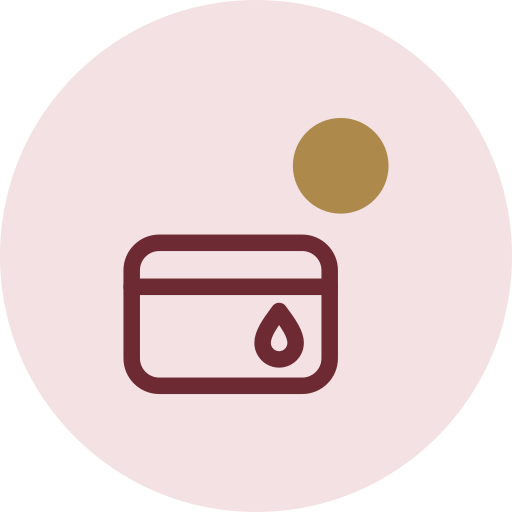
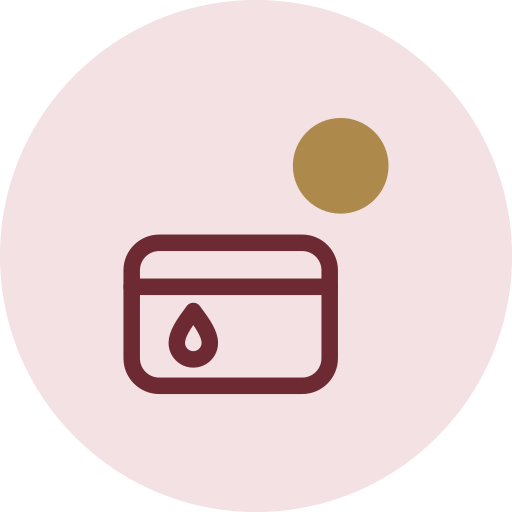
アイコンのしずくを、カードの左側へ移す(絵全体の重心が右に寄っていたため)

Changed region(s): [[0.3125, 0.5938, 0.4375, 0.7188], [0.5, 0.5938, 0.5938, 0.7188]]

diff --git a/components/CardMark.tsx b/components/CardMark.tsx
@@ -14,7 +14,7 @@ export default function CardMark({ size = 26 }: { size?: number }) {
     >
       <rect x="3" y="6" width="18" height="13" rx="2.5" />
       <path d="M3 10h18" />
-      <path d="M16.4 12.2c-0.9 1.2-1.5 2.1-1.5 2.9a1.5 1.5 0 0 0 3 0c0-0.8-0.6-1.7-1.5-2.9z" />
+      <path d="M8.6 12.2c-0.9 1.2-1.5 2.1-1.5 2.9a1.5 1.5 0 0 0 3 0c0-0.8-0.6-1.7-1.5-2.9z" />
       <circle cx="22" cy="-1" r="4.35" fill="var(--gold)" stroke="none" />
     </svg>
   );

diff --git a/BRAND.md b/BRAND.md
@@ -46,6 +46,7 @@
 - 画面の上のバー: `components/DropMark.tsx`(26px)を、appbar-brand の文字の左に置く。
 - 色や形を変えたら、assets の SVG を直して、generate-icons を実行し直す。
 - 絵の差し替え(しずく → カード+小さなしずく): ハブのカードと同じ絵にした。理由: 名前「おさいふ」との関連が、しずくだけでは分かりづらかったため。形(viewBox 24、線幅1.5、丸端): カード `rect x3 y6 w18 h13 rx2.5`、横線 `M3 10h18`、しずく(カードの右下)、金の点 `circle cx22 cy-1 r4.35`(絵の右上の外)。色は変えていない。点を含めた全体が512の枠の中央に来るよう、拡大11倍・移動(98.7, 176.8)にした(丸でも、maskable の安全領域80%でも、点は切れない)。上のバーは `components/CardMark.tsx`(DropMark から名前を変えた。viewBox `2 -6 25 26`)。
+- しずくの位置(カードの右下 → 左側): しずくの path を `M8.6 12.2…`(中心 x≒7.6)に変えた。理由: 金の丸も含めて、絵全体の重心が右に寄っていたため。カード、横線、金の点、色、拡大・移動は変えていない(しずくはカードの中なので、全体の範囲は同じ)。変えた場所: assets の2つの SVG、`components/CardMark.tsx`、生成した PNG と favicon。ファイル名は変えていない(キャッシュの注意は次の項目と同じ)。
 - アイコンのキャッシュ: ファイル名は変えていない(manifest も layout も同じ)。Next は public の画像を `max-age=0` で配るため、再読み込みで新しい絵になる。ただし、タブのアイコン(favicon)と、ホーム画面に追加済みのアイコンは、端末側で長く残ることがある。残るときは、ブラウザのキャッシュを消す、ホーム画面のアイコンを一度消して入れ直す。それでも困るなら、ファイル名にバージョンを付ける(例: icon-192-v2.png。manifest と layout の参照も変える)。
 
 ## lint の整理の方針
